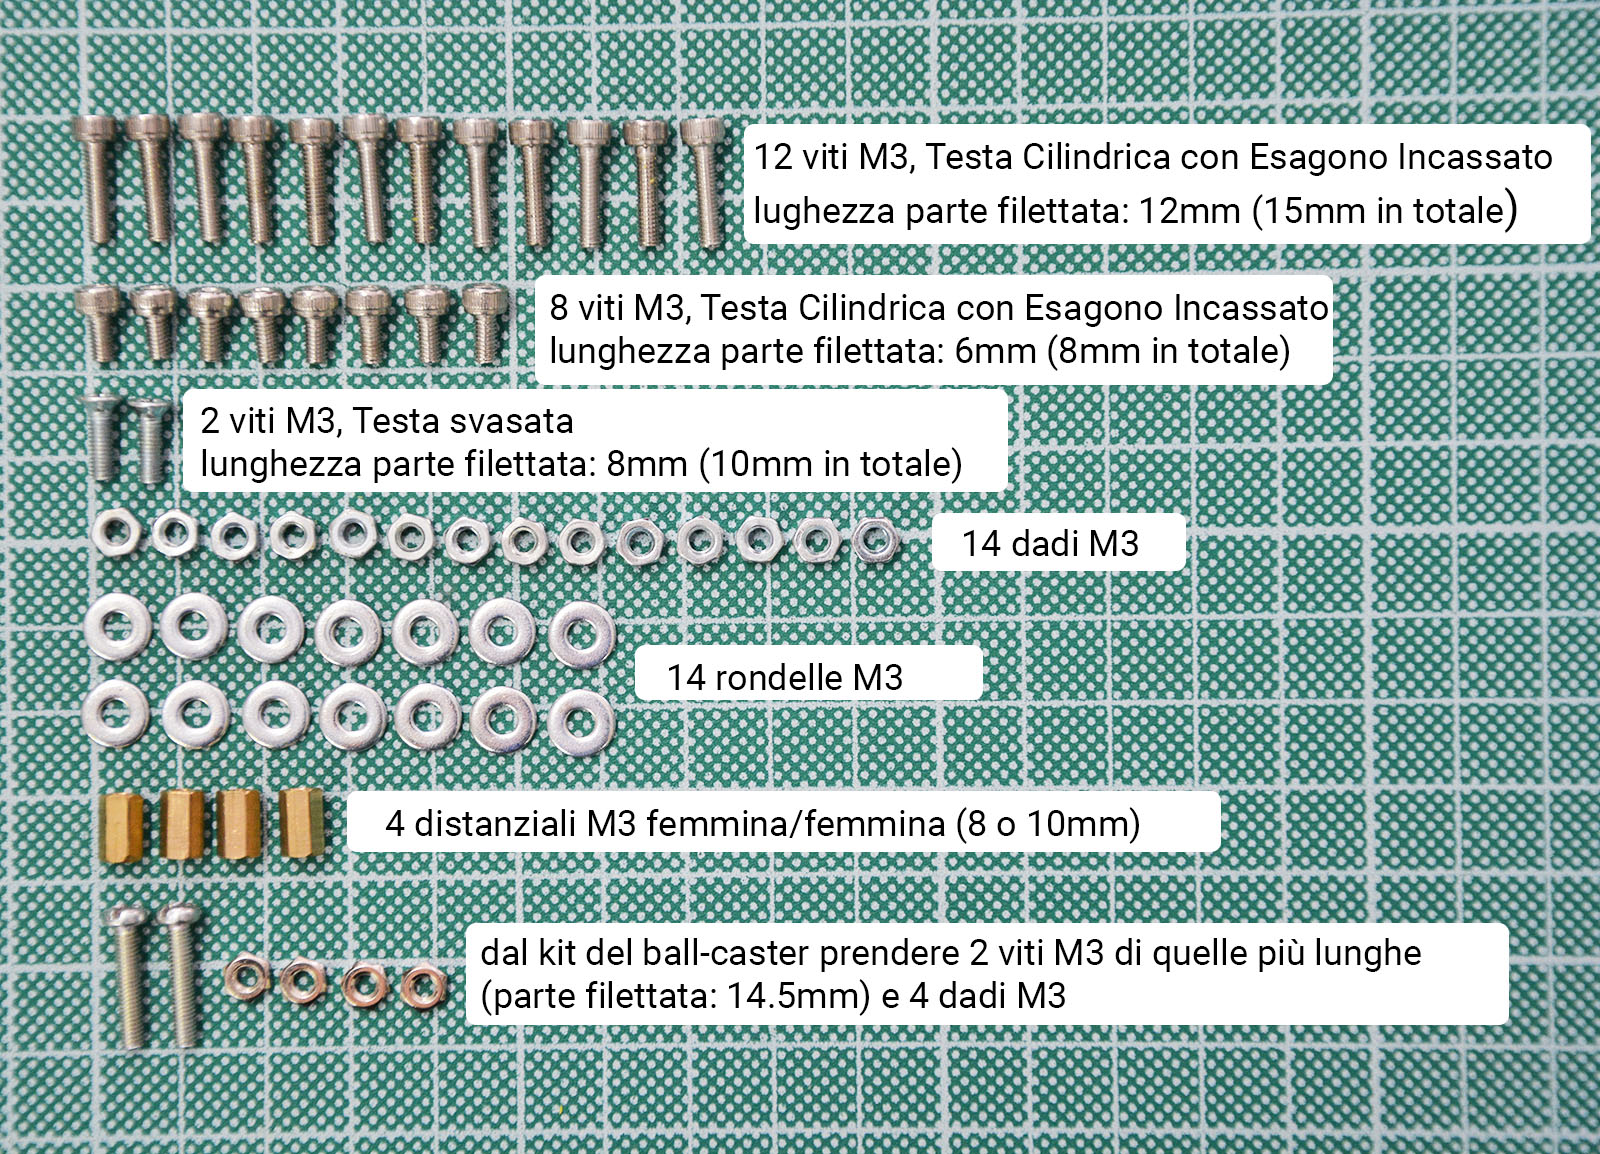
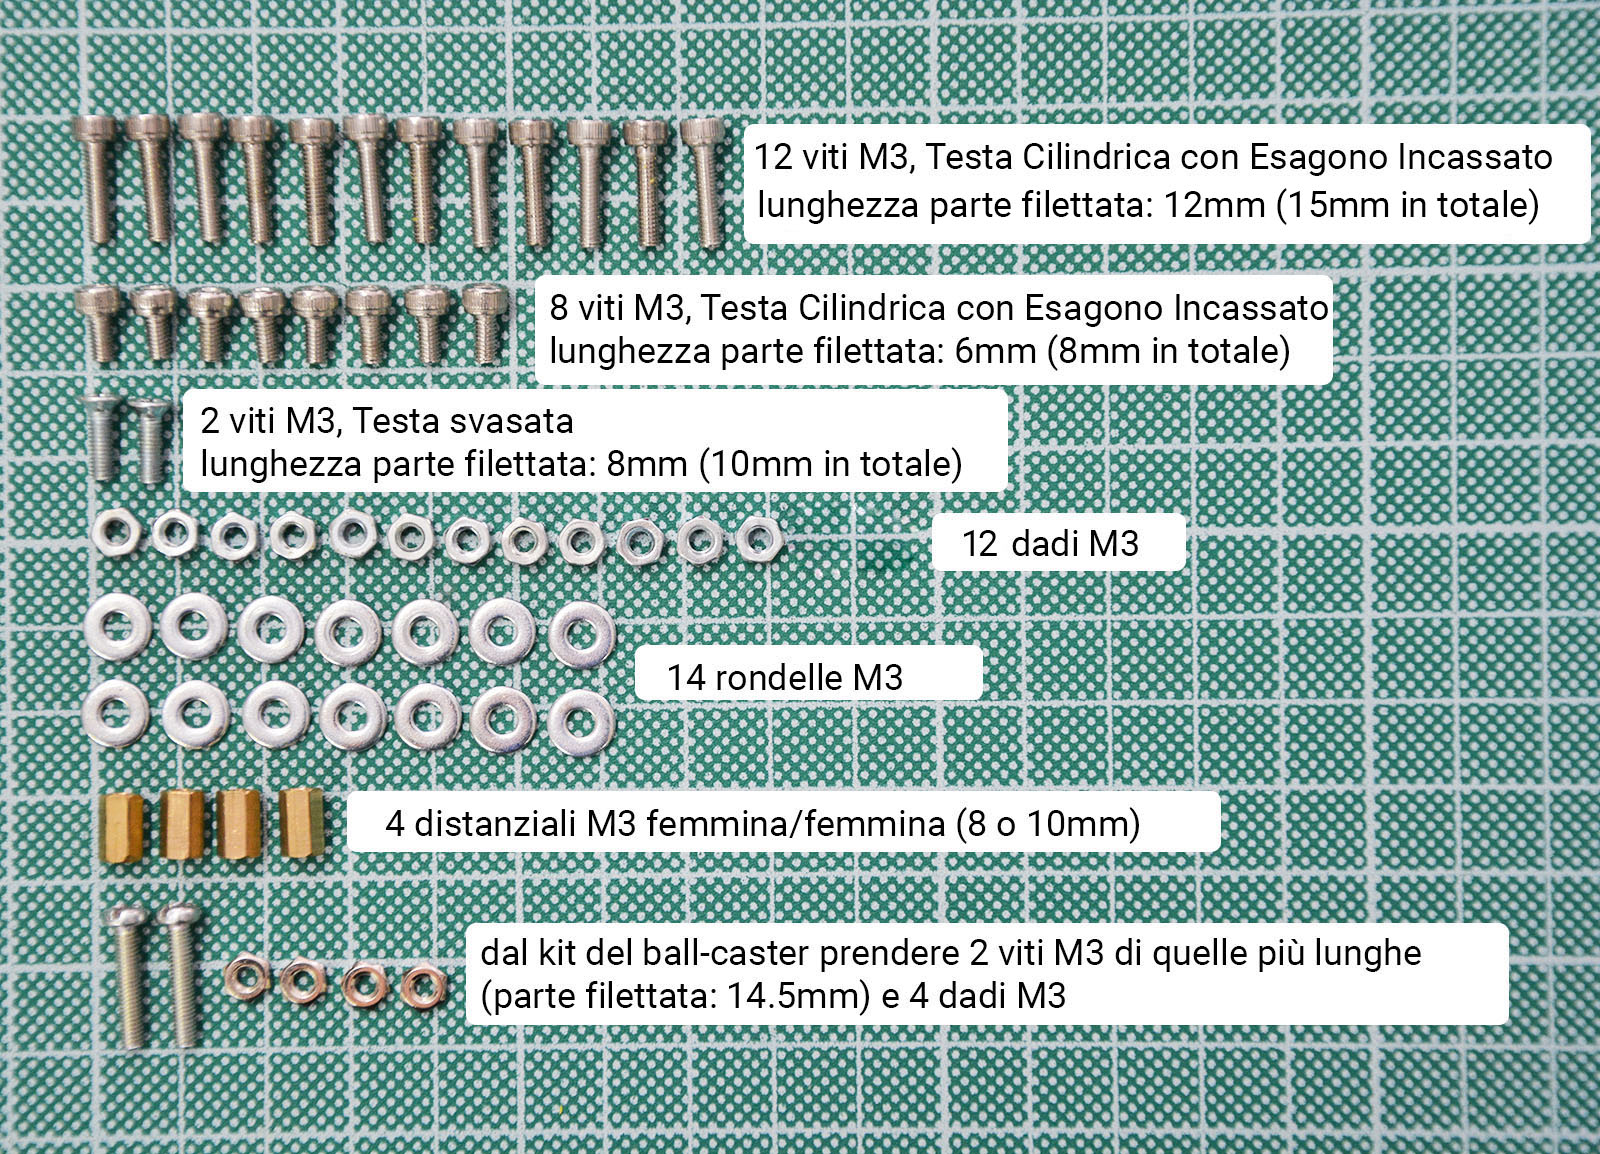
corrections

Changed region(s): [[0.4688, 0.156, 0.9688, 0.2184], [0.4688, 0.4367, 0.625, 0.4991]]

diff --git a/docs/BOM.md b/docs/BOM.md
@@ -97,7 +97,7 @@ Please see in the [STL folder](../stl)
 | 12x          | M3 screw, Allen bolt socket cap, 12mm (length of threaded part - 15mm total) |
 | 8x           | M3 screw, Allen bolt socket cap, 6mm (length of threaded part - 8mm total)   |
 | 14x          | M3 washers (optional)                                                        |
-| 14x          | M3 nuts                                                                      |
+| 12x          | M3 nuts                                                                      |
 | 2x           | M3 screw, Countersunk, 8mm (length of threaded part, 10mm total)             |
 | 4x           | Hex spacer Female/Female 8 or 10mm length                                    |
 | 1x           | Tamiya BallCaster model 70144 (*)                                            |
